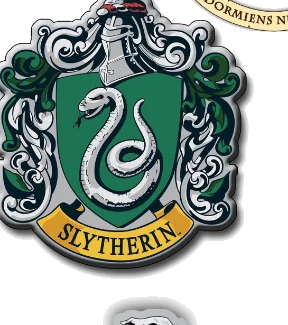
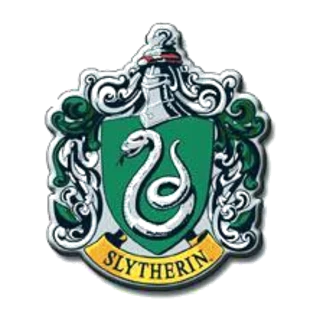
fix(spider,house): red-led suit that reads as Spider-Man, crests trimmed properly
The Web-Slinger season was blue with red as an afterthought, which is backwards
— the suit is red first. Surfaces are now red-black with blue kept as the
secondary, and Poppy is redrawn three ways it was wrong:

  - The mask covered the whole kernel, so Poppy stopped being popcorn and
    became a lumpy red blob. Tufts now show around a single smooth mask, so it
    reads as a mask worn by Poppy.
  - The eyes tapered outward and read as sunglasses. They now widen at the
    outside and taper to a point toward the nose, tipped down. That taper is
    the entire likeness.
  - The torso was a blue bucket. It is red with black webbing, a chest spider
    and blue side panels.

House crests are re-cut from the new artwork. Rather than guessing crop boxes
again, the white is knocked out, the solid regions are labelled, and only the
largest is kept — which discards the 35-45 fragments of the centre Hogwarts
crest that bled into every corner — then each is trimmed to its own bounding
box and centred on a common canvas, so all four sit identically.

Claude-Session: https://claude.ai/code/session_01897wLrH7UzQgoGZ79dury1

diff --git a/src/components/brand/PalMark.tsx b/src/components/brand/PalMark.tsx
@@ -32,7 +32,7 @@ export default function PalMark({
     none: { body: '#f6efe3', stripe: '#ff655b', rim: '#ff655b' },
     lantern: { body: '#0f7a3f', stripe: '#eafff2', rim: '#5cff9d' },
     wizarding: { body: '#f6efe3', stripe: '#7b1e26', rim: '#7b1e26' },
-    spider: { body: '#1f3a93', stripe: '#d6282e', rim: '#d6282e' },
+    spider: { body: '#c8161d', stripe: '#1b3fa0', rim: '#c8161d' },
   }[worn]
 
   return (
@@ -74,22 +74,32 @@ export default function PalMark({
 
       {worn === 'spider' && (
         <>
-          {/* The mask covers the kernel; the eyes do all the work. */}
+          {/* Popcorn tufts stay visible around the mask — burying the kernel in
+              red loses Poppy entirely and reads as a lumpy blob. */}
+          <g>
+            <circle cx="150" cy="212" r="58" fill="#eab84f" />
+            <circle cx="362" cy="212" r="58" fill="#eab84f" />
+            <circle cx="196" cy="146" r="54" fill="#f6cd66" />
+            <circle cx="316" cy="146" r="54" fill="#f6cd66" />
+            <circle cx="256" cy="120" r="58" fill="#ffd97e" />
+          </g>
+          {/* One smooth head, so the mask reads as a mask and not as scenery. */}
+          <ellipse cx="256" cy="214" rx="106" ry="100" fill="#c8161d" />
           <path
-            d="M158 150 q98 -34 196 0 q16 76 -22 116 q-36 34 -76 34 q-40 0 -76 -34 q-38 -40 -22 -116 Z"
-            fill="#d6282e"
-          />
-          <path
-            d="M182 176 q92 -22 148 0 M170 214 q86 -18 172 0 M256 146 l0 128 M206 158 q12 60 42 108 M306 158 q-12 60 -42 108"
-            stroke="#8f1418"
-            strokeWidth="5"
+            d="M256 116 l0 196 M156 172 q100 -26 200 0 M150 216 q106 -22 212 0 M162 262 q94 -20 188 0
+               M192 130 q10 92 34 178 M320 130 q-10 92 -34 178"
+            stroke="#6d0a10"
+            strokeWidth="4.5"
             fill="none"
-            opacity=".75"
+            opacity=".8"
           />
-          <path d="M186 214 q34 -34 62 -6 q-24 44 -58 34 q-10 -14 -4 -28 Z" fill="#f2f5ff" />
-          <path d="M326 214 q-34 -34 -62 -6 q24 44 58 34 q10 -14 4 -28 Z" fill="#f2f5ff" />
-          <path d="M186 214 q34 -34 62 -6 q-24 44 -58 34 q-10 -14 -4 -28 Z" fill="none" stroke="#8f1418" strokeWidth="6" />
-          <path d="M326 214 q-34 -34 -62 -6 q24 44 58 34 q10 -14 4 -28 Z" fill="none" stroke="#8f1418" strokeWidth="6" />
+          {/* Each eye is tall and rounded on the outside and tapers to a point
+              toward the nose, tipped slightly down. That taper is the whole
+              likeness; get it backwards and it reads as sunglasses. */}
+          <path d="M166 202 q4 -30 30 -34 q40 2 66 44 q-30 30 -66 26 q-30 -6 -30 -36 Z" fill="#0b0b0d" />
+          <path d="M346 202 q-4 -30 -30 -34 q-40 2 -66 44 q30 30 66 26 q30 -6 30 -36 Z" fill="#0b0b0d" />
+          <path d="M177 203 q3 -22 22 -25 q31 2 51 34 q-23 22 -51 19 q-23 -5 -22 -28 Z" fill="#f4f7ff" />
+          <path d="M335 203 q-3 -22 -22 -25 q-31 2 -51 34 q23 22 51 19 q23 -5 22 -28 Z" fill="#f4f7ff" />
         </>
       )}
 
@@ -141,10 +151,22 @@ export default function PalMark({
       <rect x="118" y="288" width="276" height="30" rx="15" fill={palette.rim} />
 
       {worn === 'spider' && (
-        <g stroke="#f2f5ff" strokeWidth="7" fill="none" opacity=".85">
-          <path d="M256 306 l0 154 M180 316 l60 144 M332 316 l-60 144" />
-          <path d="M166 352 q90 -18 180 0 M176 396 q80 -16 160 0 M186 438 q70 -14 140 0" />
-        </g>
+        <>
+          <g stroke="#0b0b0d" strokeWidth="5" fill="none" opacity=".75">
+            <path d="M256 306 l0 154 M198 312 l44 148 M314 312 l-44 148" />
+            <path d="M176 348 q80 -18 160 0 M186 394 q70 -16 140 0 M196 438 q60 -14 120 0" />
+          </g>
+          <g fill="#0b0b0d">
+            <ellipse cx="256" cy="372" rx="15" ry="19" />
+            <path
+              d="M242 358 q-22 -14 -32 -30 M270 358 q22 -14 32 -30 M240 372 q-26 -2 -44 6 M272 372 q26 -2 44 6 M244 388 q-22 12 -30 30 M268 388 q22 12 30 30"
+              stroke="#0b0b0d"
+              strokeWidth="5"
+              fill="none"
+              strokeLinecap="round"
+            />
+          </g>
+        </>
       )}
 
       {worn === 'lantern' && (

diff --git a/src/themes/themes.ts b/src/themes/themes.ts
@@ -166,42 +166,42 @@ export const WIZARDING = season(
 export const SPIDER = season(
   'spider',
   'Web-Slinger',
-  'Night over the city, and a red suit on the skyline.',
+  'Red suit, blue trim, and the whole city upside down.',
   'spider',
   {
-    'gray-900': '10 14 34',
-    'gray-800': '18 25 54',
-    'gray-700': '38 50 96',
-    'gray-600': '58 74 130',
-    'gray-500': '104 122 176',
-    'gray-400': '146 162 208',
-    'gray-300': '188 200 232',
+    'gray-900': '22 8 11',
+    'gray-800': '38 14 18',
+    'gray-700': '78 28 34',
+    'gray-600': '112 42 48',
+    'gray-500': '158 92 96',
+    'gray-400': '198 140 144',
+    'gray-300': '226 186 188',
 
-    bg: '10 14 34',
-    surface: '18 25 54',
-    'surface-strong': '27 37 74',
-    'surface-sunken': '13 18 42',
-    'surface-raised': '44 58 108',
-    line: '38 50 96',
-    'line-soft': '46 60 112',
-    'line-strong': '68 86 146',
+    bg: '22 8 11',
+    surface: '38 14 18',
+    'surface-strong': '54 20 25',
+    'surface-sunken': '28 10 14',
+    'surface-raised': '86 32 38',
+    line: '78 28 34',
+    'line-soft': '92 34 40',
+    'line-strong': '124 48 54',
 
-    text: '236 240 255',
-    parchment: '226 232 250',
-    muted: '146 162 208',
+    text: '255 236 236',
+    parchment: '250 228 228',
+    muted: '198 140 144',
 
-    accent: '214 40 46',
-    'accent-soft': '236 62 68',
-    'accent-warm': '226 54 54',
-    'accent-bright': '255 94 98',
+    accent: '230 36 41',
+    'accent-soft': '252 62 66',
+    'accent-warm': '242 48 52',
+    'accent-bright': '255 104 106',
     'accent-deep': '255 240 240',
     'on-accent': '255 240 240',
 
-    'butter-300': '182 200 255',
-    'butter-400': '124 152 255',
-    'butter-500': '86 116 232',
-    'butter-600': '58 86 190',
-    'butter-gold': '158 182 255',
+    'butter-300': '126 168 255',
+    'butter-400': '58 110 232',
+    'butter-500': '36 82 198',
+    'butter-600': '24 58 150',
+    'butter-gold': '96 142 244',
   }
 )
 
